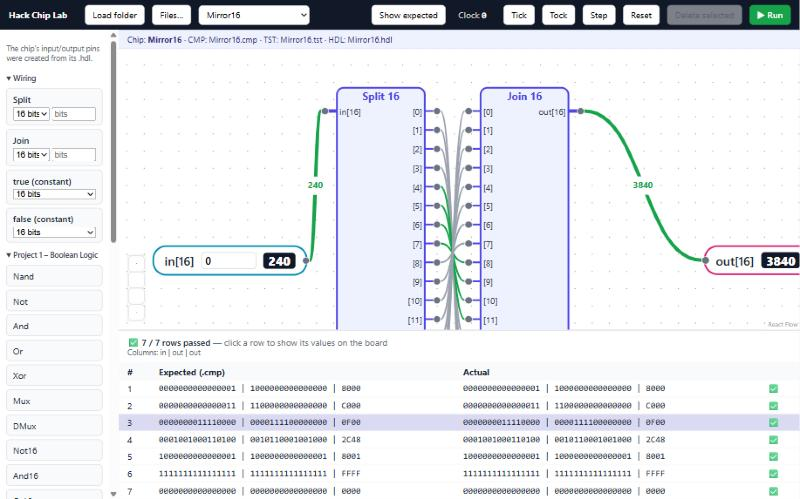
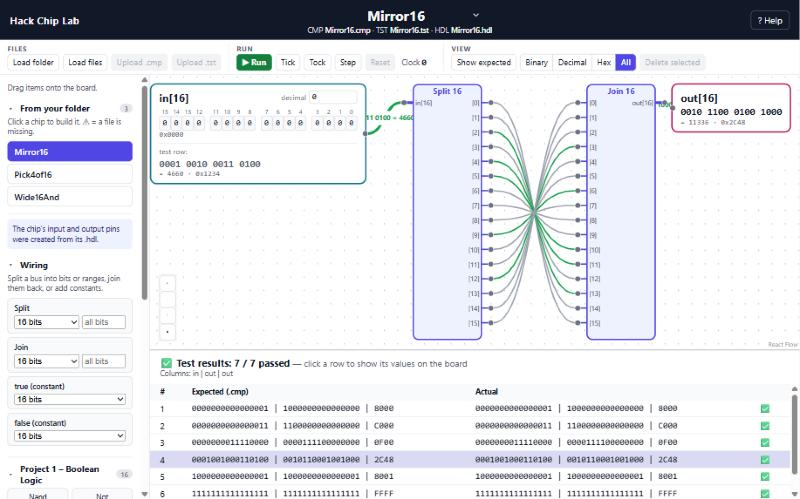
UI polish: one-row toolbar at 1280px, auto-fit view, new screenshot
- toolbar: tighter spacing and button padding so Files / Run / View fit on one row at 1280px
  (wraps cleanly below that)
- board: fitView on board resize (results panel, Show expected, window) and when another chip's
  board is shown, unless the user panned or zoomed by hand; the fit-view button re-arms auto-fit
- docs/screenshot.png retaken (chip selected, working circuit, binary values, 7/7 passed); README text
- CLAUDE.md updated

No engine code or engine test changed.

diff --git a/src/ui/Board.tsx b/src/ui/Board.tsx
@@ -1,4 +1,4 @@
-import type { DragEvent } from 'react'
+import { useCallback, useEffect, useRef, type DragEvent } from 'react'
 import {
   Background,
   Controls,
@@ -21,11 +21,48 @@ interface Props {
   onEdgesChange: OnEdgesChange
   onConnect: OnConnect
   onDropItem: (item: DragItem, position: { x: number; y: number }) => void
+  /** Changes when a different board is shown (another chip): the view is fitted to the new nodes. */
+  fitKey: string
 }
 
 // useReactFlow() only works *inside* <ReactFlowProvider>, hence the two components.
-function BoardInner({ nodes, edges, onNodesChange, onEdgesChange, onConnect, onDropItem }: Props) {
-  const { screenToFlowPosition } = useReactFlow()
+function BoardInner({ nodes, edges, onNodesChange, onEdgesChange, onConnect, onDropItem, fitKey }: Props) {
+  const { screenToFlowPosition, fitView } = useReactFlow()
+
+  // ---- keep every node visible ----
+  // Whenever the board changes size (window resized, results panel opened or closed ...) the view is
+  // fitted to the nodes again, UNLESS the user has panned or zoomed by hand: then we leave their view
+  // alone. The "fit view" button in the corner (or switching chip) hands control back to us.
+  const wrapRef = useRef<HTMLDivElement>(null)
+  const userMoved = useRef(false)
+  const hasNodes = useRef(false)
+  hasNodes.current = nodes.length > 0
+  const fit = useCallback(() => void fitView({ padding: 0.12, maxZoom: 1.25, duration: 0 }), [fitView])
+
+  useEffect(() => {
+    const el = wrapRef.current
+    if (!el) return
+    let frame = 0
+    // ResizeObserver tells us when the board element changes size; wait one frame so layout is final.
+    const observer = new ResizeObserver(() => {
+      cancelAnimationFrame(frame)
+      frame = requestAnimationFrame(() => {
+        if (!userMoved.current && hasNodes.current) fit()
+      })
+    })
+    observer.observe(el)
+    return () => {
+      observer.disconnect()
+      cancelAnimationFrame(frame)
+    }
+  }, [fit])
+
+  // A different chip's board: forget manual panning and fit to its nodes (after they were measured).
+  useEffect(() => {
+    userMoved.current = false
+    const t = setTimeout(fit, 80)
+    return () => clearTimeout(t)
+  }, [fitKey, fit])
 
   const onDragOver = (e: DragEvent) => {
     e.preventDefault() // required, otherwise the browser refuses the drop
@@ -41,7 +78,7 @@ function BoardInner({ nodes, edges, onNodesChange, onEdgesChange, onConnect, onD
   }
 
   return (
-    <div className="board">
+    <div className="board" ref={wrapRef}>
       {/* Shown only while the board is empty; clicks pass through to the board underneath. */}
       {nodes.length === 0 && (
         <div className="board-hint" aria-live="polite">
@@ -59,10 +96,14 @@ function BoardInner({ nodes, edges, onNodesChange, onEdgesChange, onConnect, onD
         onDrop={onDrop}
         deleteKeyCode={null} // App handles Delete/Backspace itself (see deleteSelected)
         defaultEdgeOptions={{ interactionWidth: 20 }} // wide invisible click area around each wire
+        // event is null for our own fitView calls and set when the user drags or zooms the view
+        onMoveStart={(event) => {
+          if (event) userMoved.current = true
+        }}
         fitView
       >
         <Background />
-        <Controls />
+        <Controls onFitView={() => (userMoved.current = false)} />
       </ReactFlow>
     </div>
   )

diff --git a/src/index.css b/src/index.css
@@ -79,15 +79,18 @@ button.primary:disabled { background: var(--line-soft); border-color: var(--line
 .help-btn:hover:not(:disabled) { background: #1f2937; border-color: #fff; }
 
 /* ---------- toolbar: three labelled groups ---------- */
-.toolbar { display: flex; flex-wrap: wrap; gap: var(--gap-2) var(--gap-4); align-items: stretch; padding: var(--gap-2) var(--gap-4); background: var(--panel); border-bottom: 1px solid var(--line); }
-.tool-group { display: flex; flex-direction: column; gap: var(--gap-1); padding-right: var(--gap-4); border-right: 1px solid var(--line-soft); }
+/* Tight spacing so all three groups fit on ONE row at 1280 px; if the window is narrower they wrap
+   cleanly (each group keeps its own title and top alignment). */
+.toolbar { display: flex; flex-wrap: wrap; gap: var(--gap-2) var(--gap-3); align-items: flex-start; padding: 6px var(--gap-3); background: var(--panel); border-bottom: 1px solid var(--line); }
+.tool-group { display: flex; flex-direction: column; gap: 2px; padding-right: var(--gap-3); border-right: 1px solid var(--line-soft); }
 .tool-group:last-child { border-right: 0; padding-right: 0; }
 .tool-label { font-size: var(--fs-xs); font-weight: 700; text-transform: uppercase; letter-spacing: .08em; color: var(--muted); }
-.tool-buttons { display: flex; flex-wrap: wrap; align-items: center; gap: var(--gap-1) var(--gap-2); }
+.tool-buttons { display: flex; flex-wrap: nowrap; align-items: center; gap: var(--gap-1) 6px; }
+.toolbar button { padding: 4px 8px; font-size: 13px; white-space: nowrap; }
 .clock { font-size: var(--fs-sm); color: var(--muted); margin-left: var(--gap-1); }
 .clock b { display: inline-block; min-width: 3ch; color: var(--ink); font-family: var(--mono); font-size: var(--fs-md); }
 .segmented { display: inline-flex; }
-.seg { border-radius: 0; margin-left: -1px; padding: 5px 9px; }
+.toolbar .seg { border-radius: 0; margin-left: -1px; padding: 4px 8px; }
 .seg:first-child { border-radius: var(--radius) 0 0 var(--radius); margin-left: 0; }
 .seg:last-child { border-radius: 0 var(--radius) var(--radius) 0; }
 .seg.on { background: var(--accent); border-color: var(--accent); color: #fff; font-weight: 600; position: relative; }

diff --git a/src/App.tsx b/src/App.tsx
@@ -529,6 +529,7 @@ export default function App() {
               onEdgesChange={onEdgesChange}
               onConnect={onConnect}
               onDropItem={onDropItem}
+              fitKey={activeSlot}
             />
           </BoardContext.Provider>
           {run && <ResultsTable run={run} selected={selectedRow} onSelect={setSelectedRow} />}

diff --git a/README.md b/README.md
@@ -4,9 +4,9 @@ A web app for **building Nand2Tetris chips visually**: drag built-in chips onto 
 together, and check the result against the exercise's own `.tst` / `.cmp` files, with a ✅ / ❌ for every row.
 Everything runs in your browser; nothing is uploaded anywhere.
 
-![Hack Chip Lab: a hand-wired Mirror16 chip (Split + Join) with all 7 test rows passing](docs/screenshot.png)
+![Hack Chip Lab: the Mirror16 chip selected, wired with Split and Join, binary values on the pins and all 7 test rows passing](docs/screenshot.png)
 
-_A bit-reversal chip built from Split and Join, with its `.tst` / `.cmp` results (7 / 7 rows passed)._
+_Mirror16 (a bit reversal built from Split and Join): the chip and its files in the top bar, binary / decimal / hex values on the pins for the selected test row, and 7 / 7 test rows passed._
 
 ## Quick start
 
@@ -31,6 +31,8 @@ Then open the address Vite prints (usually http://localhost:5173).
 - **Buses:** Split, Join and true / false constants (1–16 bits, single bits or ranges such as `0..7`).
 - **Runs the chip's `.tst` against its `.cmp`** and shows a pass/fail table. Click a row to see its values on
   the board (wires turn green for 1, gray for 0). **Show expected** displays the `.cmp` table.
+- **Values you can read:** pins and wires show their value in binary (grouped by 4 bits), decimal and hex; the
+  toolbar's format switch chooses which. Input pins have clickable bit buttons next to the decimal box.
 - **Clock:** Tick / Tock / Step / Reset with a cycle counter and the stored value of every DFF and PC.
 - **Editing:** select a chip, pin or wire and press Delete / Backspace (or use **Delete selected**).
 - **Autosave:** every chip keeps its own circuit in your browser's local storage.

diff --git a/CLAUDE.md b/CLAUDE.md
@@ -19,6 +19,11 @@ Web app for wiring Nand2Tetris chips (Hack computer) on a 2D canvas and checking
   bits), Decimal, Hex or All (default). It applies to pin nodes AND to the value labels of wires wider than 1 bit.
   Input pins have a row of bit buttons (MSB on the left, bit index on top) that stay in sync with the decimal box.
   Output pins show their value after Run / Tick / Step. Pin widths are 1..16, so a 16-bit pin node is wide.
+- **Keeping the board in view** (`Board.tsx`): the toolbar is tight enough to sit on ONE row at 1280 px (it wraps
+  cleanly below that). A `ResizeObserver` on the board refits the view (`fitView`, max zoom 1.25) whenever the board
+  changes size (window resize, results panel opening/closing, Show expected) and when a different chip's board is
+  shown (`fitKey`), UNLESS the user panned or zoomed by hand (`onMoveStart` with a real event sets `userMoved`). The
+  corner "fit view" button clears that flag, so auto-fit resumes.
 - User drags chips from the palette onto the canvas, adds named input/output pins, and connects them with wires.
 - Click a chip, pin or wire to select it (amber highlight). Delete / Backspace or the **Delete selected** button removes
   the selection plus any wires attached to deleted nodes. Keys are ignored while typing in a text field. Deletion is
